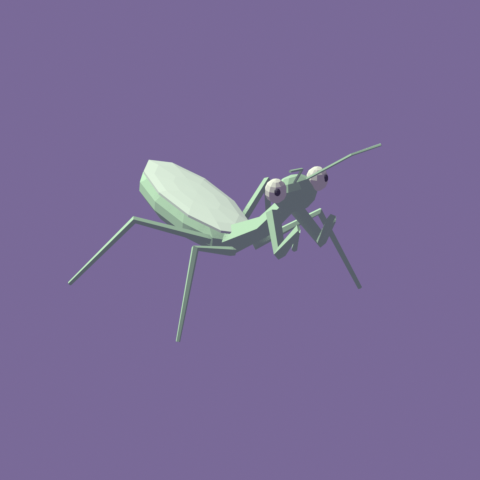
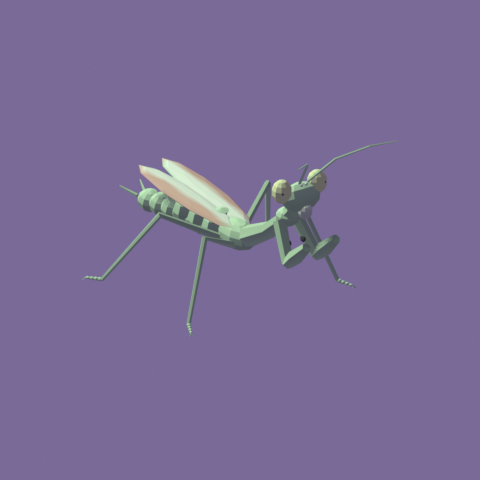
Detailed rainbow stag beetle and praying mantis
- Beetle: domed shell with seam + iridescent normal-based color, wide head with eye ridges,
  long curved mandibles with inner teeth, elbowed antennae with fanned clubs, jointed legs
  with tarsi, claws and spines
- Mantis: triangular head with pseudopupils + ocelli, long prothorax, spiny raptorial
  forelegs with coxa eyespot, segmented abdomen + cerci, brown-edged tegmina, thin legs with feet
- New helpers: jointed_leg, segmented, spike; extra top/front/close renders

Changed region(s): [[0.125, 0.3125, 0.75, 0.7188], [0.75, 0.2812, 0.8125, 0.3125], [0.6875, 0.3125, 0.75, 0.3438]]

diff --git a/ArtSource/build_critters.py b/ArtSource/build_critters.py
@@ -63,10 +63,18 @@ class Critter:
         self.col = self.bm.loops.layers.float_color.new("Col")
 
     def paint(self, faces, color, mat):
+        two = callable(color) and color.__code__.co_argcount >= 2
+        if two:
+            self.bm.normal_update()
         for f in faces:
             f.material_index = mat
             for loop in f.loops:
-                c = color(loop.vert.co) if callable(color) else color
+                if not callable(color):
+                    c = color
+                elif two:
+                    c = color(loop.vert.co, loop.vert.normal)
+                else:
+                    c = color(loop.vert.co)
                 loop[self.col] = (*c, 1.0)
 
     def blob(self, center, radii, color, mat=M_MATTE, rot=(0, 0, 0), seg=10, rings=7):
@@ -117,6 +125,52 @@ class Critter:
                 f = k + Vector((sx * foot[0] * spread, foot[1], foot[2]))
                 self.tube([hip, k, f], [thick, thick * 0.8, thick * 0.45], color, mat)
 
+    def spike(self, base, tip, radius, color, mat=M_MATTE):
+        """A little cone: leg spines, mandible teeth, claws."""
+        return self.tube([base, tip], [radius, radius * 0.08], color, mat, sides=4)
+
+    def jointed_leg(self, points, radii, color, mat=M_MATTE, foot=(0, 0.05, -0.01), foot_segments=4,
+                    spines=(), claw=0.022):
+        """A real insect leg: coxa-femur-tibia as one bent tube, then a chain of little foot segments
+        (tarsi) ending in two claws. spines: (segment index, count, length, side vector)."""
+        pts = [Vector(q) for q in points]
+        self.tube(pts, radii, color, mat, sides=6)
+        for seg_i, count, length, side in spines:
+            a, b = pts[seg_i], pts[seg_i + 1]
+            for k in range(count):
+                t = (k + 1) / (count + 1)
+                base = a.lerp(b, t)
+                r = radii[seg_i] + (radii[seg_i + 1] - radii[seg_i]) * t
+                out = Vector(side).normalized()
+                self.spike(base + out * r * 0.8, base + out * (r + length) + (b - a).normalized() * length * 0.5,
+                           r * 0.35, color, mat)
+        step = Vector(foot) / foot_segments
+        q = pts[-1]
+        r0 = radii[-1]
+        for k in range(foot_segments):
+            centre = q + step * (k + 0.5)
+            size = r0 * (1.1 - 0.12 * k)
+            self.blob(centre, (size, step.length * 0.6, size * 0.8), color, mat, seg=6, rings=4,
+                      rot=(0, 0, math.degrees(math.atan2(-step.x, step.y))))
+        end = q + step * foot_segments
+        side = Vector((step.y, -step.x, 0)).normalized() if step.length > 0 else Vector((1, 0, 0))
+        for sgn in (1, -1):
+            self.spike(end, end + step.normalized() * claw + side * sgn * claw * 0.6 + Vector((0, 0, -claw * 0.7)),
+                       r0 * 0.4, color, mat)
+
+    def segmented(self, start, end, radii_w, radii_h, segments, color, mat=M_MATTE, sides=10, droop=0.0):
+        """A body made of overlapping rings (insect abdomen): each segment bulges and pinches."""
+        a, b = Vector(start), Vector(end)
+        for k in range(segments):
+            t0, t1 = k / segments, (k + 1) / segments
+            c = a.lerp(b, (t0 + t1) / 2) + Vector((0, 0, -droop * ((t0 + t1) / 2) ** 2))
+            w = radii_w[0] + (radii_w[1] - radii_w[0]) * (t0 + t1) / 2
+            h = radii_h[0] + (radii_h[1] - radii_h[0]) * (t0 + t1) / 2
+            length = (b - a).length / segments * 0.62
+            d = (b - a).normalized()
+            pitch = math.degrees(math.atan2(d.z, math.hypot(d.x, d.y)))
+            self.blob(c, (w, length * 1.05, h), color, mat, rot=(pitch, 0, 0), seg=sides, rings=6)
+
     def finish(self, location=(0, 0, 0)):
         me = bpy.data.meshes.new(self.name)
         bmesh.ops.recalc_face_normals(self.bm, faces=self.bm.faces)
@@ -136,57 +190,157 @@ class Critter:
 
 
 def rainbow_stag_beetle():
-    """Like Orion: a metallic shell that shifts green -> gold -> red -> purple toward the head."""
+    """Phalacrognathus muelleri (male), like Orion. Metallic shell that runs green -> gold -> copper ->
+    red -> violet toward the head, with an iridescent shift across the curve of every plate."""
     c = Critter("Critter_RainbowStagBeetle")
 
-    def shell(p):
-        t = min(1.0, max(0.0, (p.y + 0.5) / 1.1))
-        hue = (0.36 - 0.52 * t) % 1.0
-        seam = abs(p.x) < 0.018 and p.y < 0.12
-        r, g, b = colorsys.hsv_to_rgb(hue, 0.9, 0.55 if seam else 0.95)
-        return (r, g, b)
+    def irid(base_shift=0.0, sat=0.9, dark_seam=False):
+        def color(p, n):
+            t = min(1.0, max(0.0, (p.y + 0.5) / 1.15))
+            hue = (0.34 - 0.5 * t + base_shift + 0.07 * n.x * (1 if p.x >= 0 else -1) - 0.05 * n.z) % 1.0
+            val = 0.55 + 0.4 * max(0.0, n.z) + 0.1 * abs(n.x)
+            if dark_seam and abs(p.x) < 0.012:
+                val *= 0.55
+            r, g, b = colorsys.hsv_to_rgb(hue, sat, min(1.0, val))
+            return (r, g, b)
+        return color
 
-    def leg_color(p):
-        r, g, b = colorsys.hsv_to_rgb((0.36 - 0.52 * min(1.0, max(0.0, (p.y + 0.5) / 1.1))) % 1.0, 0.7, 0.45)
-        return (r, g, b)
+    shell = irid(dark_seam=True)
+    plate = irid(0.0, 0.85)
+    leg = irid(-0.05, 0.75)
+    underside = rgb("#2a1b33")
 
-    c.blob((0, -0.12, 0.17), (0.25, 0.36, 0.14), shell, M_SHINY, seg=14, rings=8)      # wing covers
-    c.blob((0, 0.25, 0.18), (0.24, 0.13, 0.1), shell, M_SHINY, seg=12)                  # wide pronotum, snug to the shell
-    c.blob((0, 0.39, 0.16), (0.19, 0.09, 0.075), shell, M_SHINY)                        # broad flat head
+    # wing covers (elytra): two halves with a seam, rounded at the back, a little flattened on top
+    c.blob((0, -0.14, 0.16), (0.245, 0.37, 0.13), shell, M_SHINY, seg=18, rings=10)        # one domed shell
+    c.tube([(0, 0.2, 0.25), (0, -0.2, 0.29), (0, -0.46, 0.18)], 0.008, irid(0.02, 0.9, False), M_SHINY)   # the seam
+    c.blob((0, -0.12, 0.09), (0.23, 0.36, 0.07), underside, seg=12, rings=6)              # belly
+    # scutellum: the little triangle between the wing covers and the pronotum
+    c.blob((0, 0.17, 0.235), (0.04, 0.035, 0.012), plate, M_SHINY, seg=6, rings=4)
+    # pronotum: broad, rounded at the sides, with a thin raised rim
+    c.blob((0, 0.27, 0.19), (0.235, 0.12, 0.095), plate, M_SHINY, seg=16, rings=8)
+    c.tube([(-0.2, 0.22, 0.17), (-0.235, 0.28, 0.18), (-0.21, 0.35, 0.17)], 0.01, plate, M_SHINY)
+    c.tube([(0.2, 0.22, 0.17), (0.235, 0.28, 0.18), (0.21, 0.35, 0.17)], 0.01, plate, M_SHINY)
+    # head: wide and flat, cheeks flaring behind the eyes, a ridge (canthus) over each eye
+    c.blob((0, 0.44, 0.17), (0.225, 0.11, 0.072), plate, M_SHINY, seg=14, rings=8)
     for sx in (1, -1):
-        # big pincer mandibles: out, forward, curling up and in until the tips nearly touch
-        c.tube([(sx * 0.1, 0.44, 0.16), (sx * 0.2, 0.55, 0.2), (sx * 0.19, 0.67, 0.27), (sx * 0.1, 0.75, 0.33),
-                (sx * 0.025, 0.76, 0.35)], [0.045, 0.04, 0.032, 0.022, 0.01], shell, M_SHINY, sides=6)
-        c.tube([(sx * 0.19, 0.6, 0.23), (sx * 0.12, 0.62, 0.26)], [0.018, 0.006], shell, M_SHINY)   # inner tooth
-        c.blob((sx * 0.17, 0.42, 0.18), (0.035, 0.035, 0.035), (0.04, 0.02, 0.05))                # eyes
-        c.tube([(sx * 0.15, 0.45, 0.19), (sx * 0.25, 0.52, 0.24), (sx * 0.29, 0.56, 0.25)], 0.012, leg_color)
-        c.blob((sx * 0.3, 0.57, 0.25), (0.025, 0.035, 0.02), leg_color)                            # antenna club
-    c.legs([(0.22, 0.15, 0.1, (0.17, 0.08, 0.03), (0.1, 0.1, -0.13)),
-            (0.0, 0.18, 0.1, (0.19, 0.0, 0.04), (0.11, -0.02, -0.14)),
-            (-0.2, 0.18, 0.1, (0.17, -0.08, 0.04), (0.1, -0.13, -0.14))], leg_color, M_SHINY, thick=0.034)
+        c.blob((sx * 0.17, 0.41, 0.16), (0.06, 0.07, 0.055), plate, M_SHINY)          # cheek flare
+        c.blob((sx * 0.185, 0.47, 0.175), (0.038, 0.04, 0.036), (0.06, 0.04, 0.07), M_SHINY)   # eye
+        c.tube([(sx * 0.13, 0.5, 0.2), (sx * 0.2, 0.48, 0.21), (sx * 0.22, 0.44, 0.2)], 0.012, plate, M_SHINY)  # canthus
+        # mandibles: long, sweeping forward and out, then curling up and in; a row of inner teeth
+        mand = [(sx * 0.07, 0.5, 0.165), (sx * 0.15, 0.6, 0.18), (sx * 0.18, 0.72, 0.21), (sx * 0.15, 0.84, 0.27),
+                (sx * 0.08, 0.92, 0.36), (sx * 0.03, 0.93, 0.42)]
+        c.tube(mand, [0.05, 0.045, 0.038, 0.03, 0.02, 0.008], irid(0.04, 0.9), M_SHINY, sides=7)
+        for (y, z, size) in ((0.66, 0.2, 0.03), (0.76, 0.23, 0.028), (0.85, 0.28, 0.022)):
+            x = sx * (0.14 if y < 0.7 else 0.13 if y < 0.8 else 0.1)
+            c.spike((x, y, z), (x - sx * size * 1.6, y + size * 0.4, z + size * 0.3), 0.014, irid(0.04, 0.9), M_SHINY)
+        # elbowed antenna: long first segment, then bead segments, then a 3-leaf club
+        base = Vector((sx * 0.16, 0.5, 0.19))
+        elbow = base + Vector((sx * 0.1, 0.08, 0.05))
+        c.tube([base, elbow], [0.012, 0.01], leg, M_SHINY)
+        tip = elbow
+        for k in range(4):
+            nxt = tip + Vector((sx * 0.025, 0.022, 0.005))
+            c.blob(tip.lerp(nxt, 0.5), (0.01, 0.014, 0.01), leg, M_SHINY, seg=6, rings=4)
+            tip = nxt
+        for k in range(3):   # lamellae: the fanned club
+            c.blob(tip + Vector((sx * (0.012 + k * 0.016), 0.012, 0)), (0.008, 0.026, 0.02), leg, M_SHINY,
+                   seg=6, rings=4, rot=(0, 0, sx * 25))
+
+    # legs: front ones dig (toothed tibia), middle/hind ones have small spines; each ends in tarsi + claws
+    for sx in (1, -1):
+        c.jointed_leg([(sx * 0.13, 0.25, 0.11), (sx * 0.24, 0.32, 0.13), (sx * 0.33, 0.4, 0.06), (sx * 0.36, 0.5, 0.0)],
+                      [0.03, 0.032, 0.024, 0.016], leg, M_SHINY, foot=(sx * 0.02, 0.1, -0.005),
+                      spines=[(2, 4, 0.03, (sx * 1, 0.3, 0))])
+        c.jointed_leg([(sx * 0.15, 0.02, 0.1), (sx * 0.29, 0.05, 0.14), (sx * 0.4, 0.0, 0.05), (sx * 0.45, -0.04, 0.0)],
+                      [0.03, 0.03, 0.022, 0.015], leg, M_SHINY, foot=(sx * 0.06, -0.08, -0.005),
+                      spines=[(2, 2, 0.018, (sx * 1, -0.2, 0))])
+        c.jointed_leg([(sx * 0.15, -0.16, 0.1), (sx * 0.29, -0.2, 0.14), (sx * 0.38, -0.32, 0.05), (sx * 0.42, -0.4, 0.0)],
+                      [0.03, 0.03, 0.022, 0.015], leg, M_SHINY, foot=(sx * 0.04, -0.1, -0.005),
+                      spines=[(2, 2, 0.018, (sx * 1, -0.2, 0))])
     return c.finish()
 
 
-def praying_mantis(name="Critter_Mantis", body="#7bc96f", light="#b6e6a0", eye="#d9f2a8", orchid=False):
+def praying_mantis(name="Critter_Mantis", body="#6fbf5e", light="#a9df8f", eye="#a9d85a", edge="#8a6a3f"):
+    """Chinese mantis (Tenodera sinensis) style: triangular head with corner eyes, long neck (prothorax),
+    spiny folded grabbing forelegs, leathery wing covers with a brown leading edge over a segmented
+    abdomen, long thin walking legs with feet, and cerci at the tail."""
     c = Critter(name)
-    body, light, eye = rgb(body), rgb(light), rgb(eye)
-    c.blob((0, -0.36, 0.24), (0.1, 0.32, 0.09), body, rot=(-6, 0, 0))                   # abdomen
-    c.blob((0, -0.3, 0.32), (0.12, 0.34, 0.025), light, rot=(-6, 0, 0))                 # folded wings
-    c.tube([(0, -0.04, 0.24), (0, 0.18, 0.38), (0, 0.34, 0.54)], [0.06, 0.045, 0.04], body)   # long neck-thorax
-    c.blob((0, 0.38, 0.6), (0.1, 0.055, 0.075), body, rot=(20, 0, 0))                   # triangle-ish head
+    body, light, eye, edge = rgb(body), rgb(light), rgb(eye), rgb(edge)
+    dark = (0.08, 0.1, 0.06)
+
+    def shaded(col):
+        def color(p, n):
+            k = 0.78 + 0.28 * max(0.0, n.z)
+            return tuple(min(1.0, ch * k) for ch in col)
+        return color
+
+    b = shaded(body)
+    # abdomen: 7 segments, widest in the middle, drooping slightly toward the tip
+    c.segmented((0, -0.08, 0.27), (0, -0.66, 0.2), (0.07, 0.05), (0.06, 0.045), 7, b, droop=0.02)
+    c.segmented((0, -0.08, 0.27), (0, -0.38, 0.26), (0.09, 0.085), (0.075, 0.07), 3, b)
+    for sx in (1, -1):   # cerci: two little tail feelers
+        c.tube([(sx * 0.02, -0.68, 0.19), (sx * 0.05, -0.76, 0.21)], [0.008, 0.003], b)
+    # wing covers (tegmina): long and narrow, folded flat over the back, brown along the outer edge
     for sx in (1, -1):
-        c.blob((sx * 0.1, 0.39, 0.64), (0.045, 0.045, 0.05), eye)                       # big eyes
-        c.blob((sx * 0.115, 0.42, 0.65), (0.015, 0.015, 0.018), (0.1, 0.1, 0.12))       # pupils
-        c.tube([(sx * 0.03, 0.42, 0.67), (sx * 0.12, 0.6, 0.82), (sx * 0.22, 0.66, 0.86)], 0.006, body)
-        # folded grabbing forelegs
-        fore = [(sx * 0.05, 0.3, 0.5), (sx * 0.1, 0.42, 0.38), (sx * 0.08, 0.52, 0.52), (sx * 0.06, 0.46, 0.4)]
-        c.tube(fore, [0.03, 0.028, 0.02, 0.012], body)
-        if orchid:   # orchid mantis: petal-shaped flaps on the legs
-            c.blob((sx * 0.2, -0.05, 0.3), (0.12, 0.07, 0.015), light, rot=(0, sx * 20, sx * 30))
-            c.blob((sx * 0.2, -0.3, 0.3), (0.13, 0.08, 0.015), light, rot=(0, sx * 20, -sx * 30))
-            c.blob((sx * 0.13, 0.45, 0.45), (0.05, 0.08, 0.012), light, rot=(30, 0, 0))
-    c.legs([(0.02, 0.05, 0.22, (0.25, 0.1, 0.12), (0.14, 0.08, -0.34)),
-            (-0.12, 0.06, 0.22, (0.26, -0.15, 0.1), (0.16, -0.22, -0.32))], body, thick=0.02)
+        def wing(p, n, sx=sx):
+            outer = abs(p.x) > 0.055
+            return edge if outer else (light if n.z > 0.5 else body)
+        c.blob((sx * 0.045, -0.3, 0.335), (0.06, 0.32, 0.018), wing, rot=(-4, 0, sx * 2), seg=10, rings=6)
+    # thorax that the legs hang from
+    c.blob((0, -0.02, 0.27), (0.065, 0.11, 0.06), b)
+    # long neck (prothorax), rising toward the head, with a bump where the forelegs attach
+    c.tube([(0, 0.06, 0.29), (0, 0.2, 0.37), (0, 0.32, 0.47), (0, 0.38, 0.53)], [0.045, 0.035, 0.032, 0.038], b, sides=7)
+    c.blob((0, 0.33, 0.48), (0.05, 0.05, 0.04), b)
+    # head: wide triangle, eyes on the top corners, mouth at the bottom point
+    c.blob((0, 0.42, 0.6), (0.09, 0.045, 0.06), b, rot=(25, 0, 0), seg=10, rings=6)
+    c.blob((0, 0.45, 0.55), (0.03, 0.03, 0.035), shaded(light))          # mouth parts
+    for sx in (1, -1):
+        c.blob((sx * 0.085, 0.41, 0.64), (0.042, 0.04, 0.05), eye)       # compound eyes
+        c.blob((sx * 0.1, 0.435, 0.645), (0.012, 0.01, 0.014), dark)    # pseudopupil
+        c.blob((sx * 0.012, 0.44, 0.66), (0.007, 0.007, 0.007), light)  # simple eyes (ocelli)
+        c.tube([(sx * 0.02, 0.44, 0.67), (sx * 0.07, 0.56, 0.8), (sx * 0.15, 0.68, 0.88), (sx * 0.24, 0.74, 0.9)],
+               [0.006, 0.005, 0.004, 0.002], b)                          # long thin antennae
+        # raptorial foreleg: long coxa down-forward, thick spiny femur up, spiny tibia folded back down
+        cox0, cox1 = Vector((sx * 0.04, 0.33, 0.47)), Vector((sx * 0.07, 0.43, 0.33))
+        fem1 = Vector((sx * 0.07, 0.56, 0.45))
+        tib1 = Vector((sx * 0.065, 0.47, 0.38))
+        c.tube([cox0, cox1], [0.028, 0.024], b, sides=6)
+        c.blob(cox0.lerp(cox1, 0.55) + Vector((-sx * 0.02, 0, 0)), (0.012, 0.016, 0.014), dark)   # coxa eyespot
+        c.tube([cox1, cox1.lerp(fem1, 0.4) + Vector((0, 0.0, 0.0)), fem1], [0.024, 0.032, 0.02], b, sides=6)
+        c.tube([fem1, tib1, tib1 + Vector((0, -0.03, -0.03))], [0.018, 0.014, 0.008], b, sides=5)
+        for k in range(5):      # spines along the inside of the femur
+            t = 0.25 + k * 0.14
+            base = cox1.lerp(fem1, t)
+            c.spike(base + Vector((-sx * 0.012, -0.012, -0.012)), base + Vector((-sx * 0.02, -0.04, -0.03)), 0.006, light)
+        for k in range(3):      # and the tibia
+            base = fem1.lerp(tib1, 0.3 + k * 0.25)
+            c.spike(base, base + Vector((-sx * 0.012, 0.02, 0.022)), 0.005, light)
+        # walking legs: long and thin, knees up high, with feet
+        c.jointed_leg([(sx * 0.05, 0.02, 0.25), (sx * 0.24, 0.1, 0.36), (sx * 0.36, 0.16, 0.04)],
+                      [0.016, 0.013, 0.009], b, foot=(sx * 0.03, 0.06, -0.01), foot_segments=4, claw=0.014)
+        c.jointed_leg([(sx * 0.05, -0.06, 0.25), (sx * 0.26, -0.18, 0.36), (sx * 0.4, -0.38, 0.04)],
+                      [0.016, 0.013, 0.009], b, foot=(sx * 0.03, -0.07, -0.01), foot_segments=4, claw=0.014)
+    return c.finish()
+
+
+def orchid_mantis():
+    """Hymenopus coronatus: pink-white, with petal-shaped lobes on the walking legs."""
+    c = Critter("Critter_OrchidMantis")
+    body, petal, eye = rgb("#f7cde0"), rgb("#fff1f7"), rgb("#ffd3ea")
+    c.blob((0, -0.32, 0.24), (0.12, 0.26, 0.09), body, rot=(-6, 0, 0))
+    c.blob((0, -0.28, 0.31), (0.13, 0.26, 0.025), petal, rot=(-6, 0, 0))
+    c.tube([(0, -0.04, 0.24), (0, 0.18, 0.38), (0, 0.34, 0.54)], [0.05, 0.04, 0.035], body)
+    c.blob((0, 0.38, 0.6), (0.09, 0.05, 0.065), body, rot=(20, 0, 0))
+    for sx in (1, -1):
+        c.blob((sx * 0.085, 0.39, 0.64), (0.04, 0.04, 0.045), eye)
+        c.tube([(sx * 0.05, 0.3, 0.5), (sx * 0.1, 0.42, 0.38), (sx * 0.08, 0.52, 0.52), (sx * 0.06, 0.46, 0.4)],
+               [0.026, 0.024, 0.018, 0.011], body)
+        c.blob((sx * 0.2, -0.05, 0.3), (0.13, 0.08, 0.016), petal, rot=(0, sx * 20, sx * 30))
+        c.blob((sx * 0.21, -0.3, 0.3), (0.14, 0.09, 0.016), petal, rot=(0, sx * 20, -sx * 30))
+        c.jointed_leg([(sx * 0.05, 0.02, 0.22), (sx * 0.24, 0.1, 0.33), (sx * 0.36, 0.16, 0.0)],
+                      [0.016, 0.013, 0.009], body, foot=(sx * 0.03, 0.05, -0.005), claw=0.012)
+        c.jointed_leg([(sx * 0.05, -0.1, 0.22), (sx * 0.26, -0.2, 0.33), (sx * 0.4, -0.4, 0.0)],
+                      [0.016, 0.013, 0.009], body, foot=(sx * 0.03, -0.06, -0.005), claw=0.012)
     return c.finish()
 
 
@@ -285,8 +439,7 @@ def mushroom_snail():
     return c.finish()
 
 
-CRITTERS = [rainbow_stag_beetle, lambda: praying_mantis(),
-            lambda: praying_mantis("Critter_OrchidMantis", "#f7c6dc", "#fff0f6", "#ffd9ec", orchid=True),
+CRITTERS = [rainbow_stag_beetle, praying_mantis, orchid_mantis,
             ladybug, bumblebee, luna_moth, firefly, mushroom_snail]
 
 objs = [make() for make in CRITTERS]
@@ -323,7 +476,10 @@ for obj in objs:
     for o in objs:
         o.hide_render = o is not obj
     center = obj.location + Vector((0, 0, 0.25))
-    for label, yaw, pitch, scale in (("q", 35, 25, 1.9), ("side", 90, 8, 1.9)):
+    views = [("q", 35, 25, 1.9), ("side", 90, 8, 1.9)]
+    if obj.name in ("Critter_RainbowStagBeetle", "Critter_Mantis"):   # the detailed ones get a closer look
+        views += [("top", 0, 89, 1.7), ("front", 0, 18, 1.2), ("close", 140, 30, 1.0)]
+    for label, yaw, pitch, scale in views:
         a, p = math.radians(yaw), math.radians(pitch)
         cam.location = center + Vector((math.sin(a) * math.cos(p), math.cos(a) * math.cos(p), math.sin(p))) * 5
         cam.rotation_euler = (center - cam.location).to_track_quat("-Z", "Y").to_euler()
